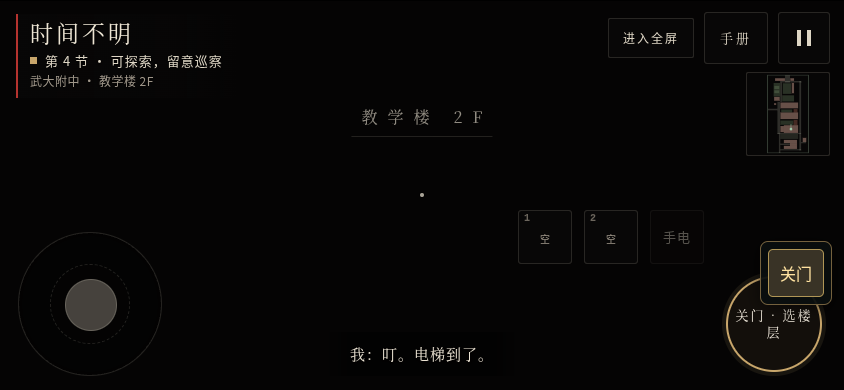
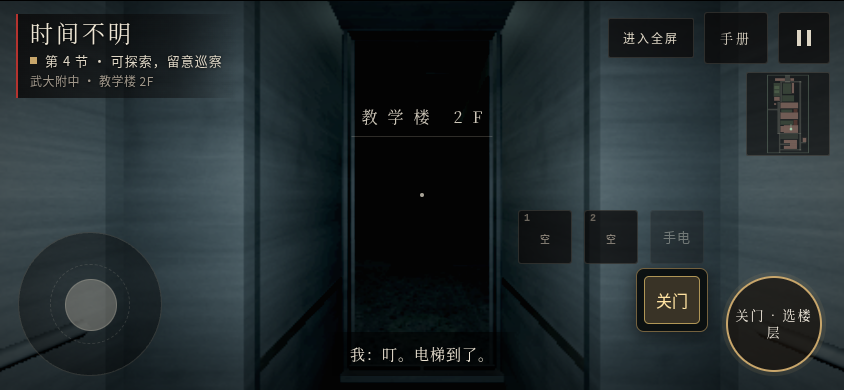
fix: 避让横屏交互控件并稳定过场回放回归

diff --git a/game3d/css/game.css b/game3d/css/game.css
@@ -485,4 +485,4 @@ body:not(.cut) #opcap{display:none}
 .elevator-controls button{min-width:56px;min-height:48px;margin:0;padding:8px;color:#d9d3bd;border:1px solid #665b43;border-radius:5px;background:#1b201e;font:inherit;touch-action:manipulation;}
 .elevator-controls #lift-close{color:#ffe2a0;border-color:#b09656;background:#393326;}
 .elevator-controls kbd{margin-left:5px;font-size:11px;opacity:.8;}.touch .elevator-controls kbd{display:none;}
-@media(max-height:450px){.elevator-controls{bottom:calc(85px + env(safe-area-inset-bottom));}}
+@media(max-height:520px) and (orientation:landscape){body.touch .elevator-controls{right:calc(136px + env(safe-area-inset-right));bottom:calc(58px + env(safe-area-inset-bottom));}}

diff --git a/tests/test_elevator_review.py b/tests/test_elevator_review.py
@@ -19,13 +19,19 @@ class ElevatorReviewTest(BrowserCase):
         }""", dict(b=b,locked=locked,warning=warning))
 
     def test_touch_close_is_immediate_without_a_choice_in_both_orientations(self):
-        for width,height in [(390,844),(844,390)]:
+        for width,height in [(390,844),(844,390),(667,320)]:
             with self.subTest(width=width,height=height):
                 page=self.game(touch=True);page.set_viewport_size(dict(width=width,height=height))
                 self.prepare(page);page.evaluate('render(0)')
                 button=page.locator('#lift-close');self.assertTrue(button.is_visible())
                 box=button.bounding_box();self.assertGreaterEqual(box['height'],44)
                 self.assertGreaterEqual(box['x'],0);self.assertLessEqual(box['y']+box['height'],height)
+                for other in page.locator('#stick,#tAct,#tTorch,#hot,#mini,#ttop,#sub').all():
+                    if not other.is_visible():continue
+                    rect=other.bounding_box()
+                    overlap_x=min(box['x']+box['width'],rect['x']+rect['width'])-max(box['x'],rect['x'])
+                    overlap_y=min(box['y']+box['height'],rect['y']+rect['height'])-max(box['y'],rect['y'])
+                    self.assertFalse(overlap_x>0 and overlap_y>0,other.get_attribute('id'))
                 button.tap()
                 self.assert_js(page,"Elevator.peek('teach').dir===-1&&!UI.chooseOpen")
                 page.evaluate('Elevator.tick(1)')

diff --git a/tests/test_void_cut.py b/tests/test_void_cut.py
@@ -130,7 +130,10 @@ class VoidCutTest(BrowserCase):
         self.assert_js(page, "S.room==='lift_dream'&&document.getElementById('arReplay').querySelector('i').textContent==='过场 · 回放'")
         page.evaluate("CUT.t=0.5*CUT.dur;true;")
         page.wait_for_function("S.room==='teach2'", timeout=5000)
-        page.wait_for_function("!ArchiveReplay.on", timeout=15000)
+        # Let real animation frames perform both transitions, without requiring three seconds
+        # of simulation to fit a wall-clock deadline under concurrent software GPU rendering.
+        page.evaluate("CUT.t=CUT.dur-0.01;true;")
+        page.wait_for_function("!ArchiveReplay.on", timeout=5000)
         self.assert_js(page, "S.screen==='menu'&&!CUT.on&&RT.elevatorRide==null&&!DeathArchive.state().seen['cut:void_in']")
         # 「全部解锁」能打开进入那张
         page.evaluate("DeathArchive.unlockAll();true;")

diff --git a/docs/validation/电梯直通接手复核/README.md b/docs/validation/电梯直通接手复核/README.md
@@ -29,8 +29,26 @@ python tools/capture_elevator_controls.py
 
 ## 画面证据与限制
 
-[复核截图](../../../pictures/电梯直通/)中的 `复核-01…04` 使用实际游戏渲染，覆盖桌面、触屏竖屏/横屏和 WebGPU 关门中。脚本设定场景、关闭颗粒并推进门计时；没有补灯，没有修改模型。`复核-截图与状态.json` 保存源码 SHA-256、实际渲染后端、门开度、位置、碰撞深度和模块/生命周期错误。截图拍自 `5fa30e9` 的运行代码。
+[复核截图](../../../pictures/电梯直通/)中的 `复核-01…04` 使用实际游戏渲染，覆盖桌面、触屏竖屏/横屏和 WebGPU 关门中。脚本设定场景、关闭颗粒并推进门计时；没有补灯，没有修改模型。`复核-截图与状态.json` 保存源码 SHA-256、实际渲染后端、门开度、位置、碰撞深度和模块/生命周期错误。截图已在同步 M3a 并修正横屏布局后重拍，实际运行源码以该 JSON 的 SHA-256 为准。
 
 运行环境为 Linux、Python 3.12、Playwright 与系统 Chromium；GPU 是软件适配器，触屏为浏览器模拟。结果不代表手机真机、自然长局、实际音频听感或硬件性能测试。完整回归仍按计划放在全部里程碑完成后执行。
 
 独立关门按钮依据已有 Claude 方案补齐，视觉部分**等待 Claude 优化审核**；本轮未改死亡 CG。
+
+
+## 同步 M3a 后的复测与收尾
+
+在 `6f642b4` 合入远端 `0d17cf1` 的过场与隐藏档案成果，三个文档追加冲突均保留双方内容，未改远端 CG。再次验证关门、过场进出、档案/速通、模块与 Wiki、原生 WebGPU：
+
+- [同步后界面14](同步后界面14.log)：14 项全部通过。
+- [同步后33](同步后33.log)：32 项通过，档案回放收尾一项在并行软件渲染下超过原 15 秒墙钟期限；单独重跑原用例正常通过。收尾测试改为推进到结束时间点，仍让真实浏览器帧执行换场和结束回调，保留档案隔离、只收尾一次及回菜单断言，没有放宽超时。
+- 截图复核发现横屏新增按钮压住交互键；现将它放在交互键左侧、快捷格下方，并增加与摇杆、交互、手电、快捷格、小地图、顶部按钮及字幕不重叠的断言。覆盖 390×844、844×390、667×320，点击仍立即关门。
+- [收尾复测2](收尾复测2.log)：上述两项最终均通过。
+
+按每个用例的最新结果统计，本轮合计 **118 个不同用例通过，无跳过**；此前的超时原始日志保留，不能把这批结果称为全量回归。完整命令如下：
+
+```bash
+PYTHONPATH=tests python -m unittest test_elevator_review test_void_cut test_archive_speedrun -v
+PYTHONPATH=tests python -m unittest test_modules test_wiki_secrets test_webgpu.NativeWebGPUTest.test_direct_elevator_and_touch_close_remain_native_in_three_quality_tiers -v
+PYTHONPATH=tests python -m unittest test_elevator_review.ElevatorReviewTest.test_touch_close_is_immediate_without_a_choice_in_both_orientations test_void_cut.VoidCutTest.test_archive_cards_are_hidden_until_seen_and_replay_in_isolation -v
+```

diff --git a/docs/测试说明.md b/docs/测试说明.md
@@ -704,3 +704,8 @@ PYTHONPATH=tests python -m unittest test_void_cut test_void_maze test_void_maze_
 - `test_wiki_secrets` 加了禁止词：异色空间、虚空迷宫、`void_in`、`void_out`、卡名「不存在的那一层」、`cut:void`。
 - 跟着改的测试：`test_archive_speedrun` 的「全部解锁」：结局与开场一节「隐藏 1」→「隐藏 3」，打开的卡 36 → 38、授予 35 → 37；`test_modules` 拿掉迷宫模块时这两张卡不出现、「全部解锁」也不授予。上面这组加 `test_modules` 全部通过（`test_void_cut` 6 项、迷宫／电梯／档案等 50 项、`test_modules` 11 项）。
 - 截图：`pictures/异色空间进出过场/`（软件 WebGL，均衡档）。
+
+
+## PR #41 Codex 接手复核（2026-11-04）
+
+以 `a92cfbc` 的 M2 为基准补修，再同步 `0d17cf1` 的 M3a。独立关门按钮/物理 V、选好楼层出发前的成就积分结算、原有预警与符纸/救援状态清理已补齐；横屏按钮避让交互键并覆盖三种触屏尺寸。原生 WebGPU 的流畅/超精细/真实三档关门与乘梯通过，两项穿模审查及全校五档碰撞通过。按用例最新结果计 118 项专项通过，无跳过；一项回放测试的墙钟超时已修正测试推进方式，原始失败日志与最终复测均保留。完整命令、日志、截图来源和限制见[电梯直通接手复核](validation/电梯直通接手复核/README.md)。本轮不改远端 CG；新增按钮视觉等待 Claude 优化审核，完整回归仍放在计划末尾。
